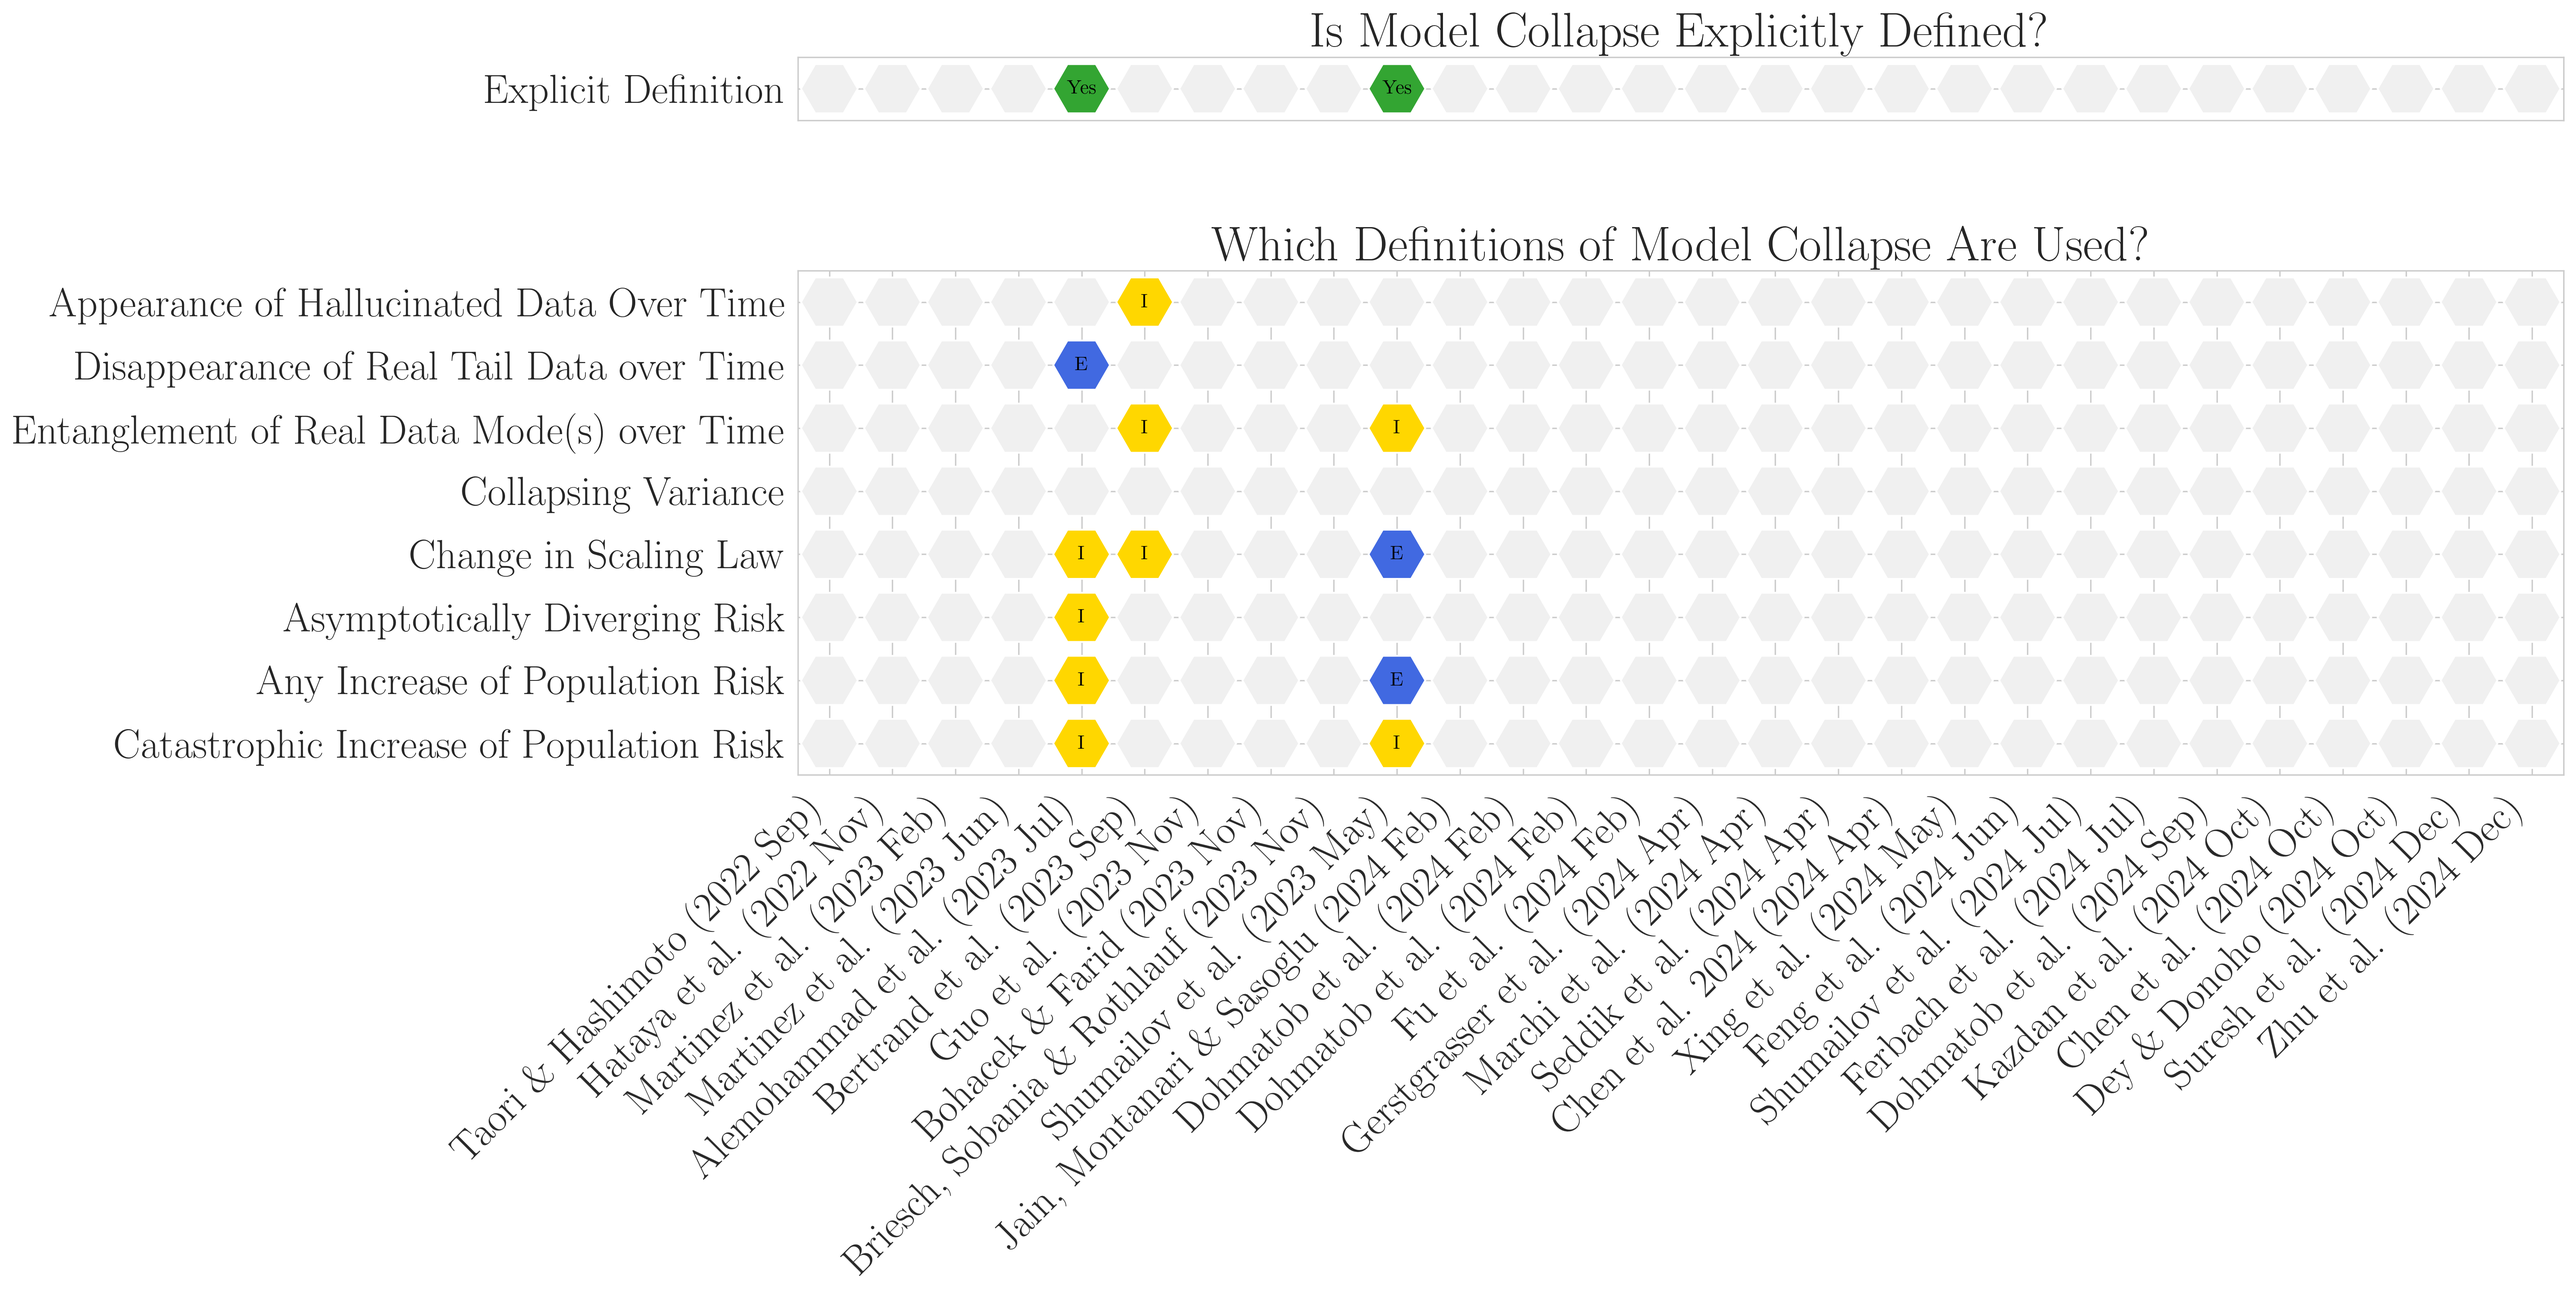
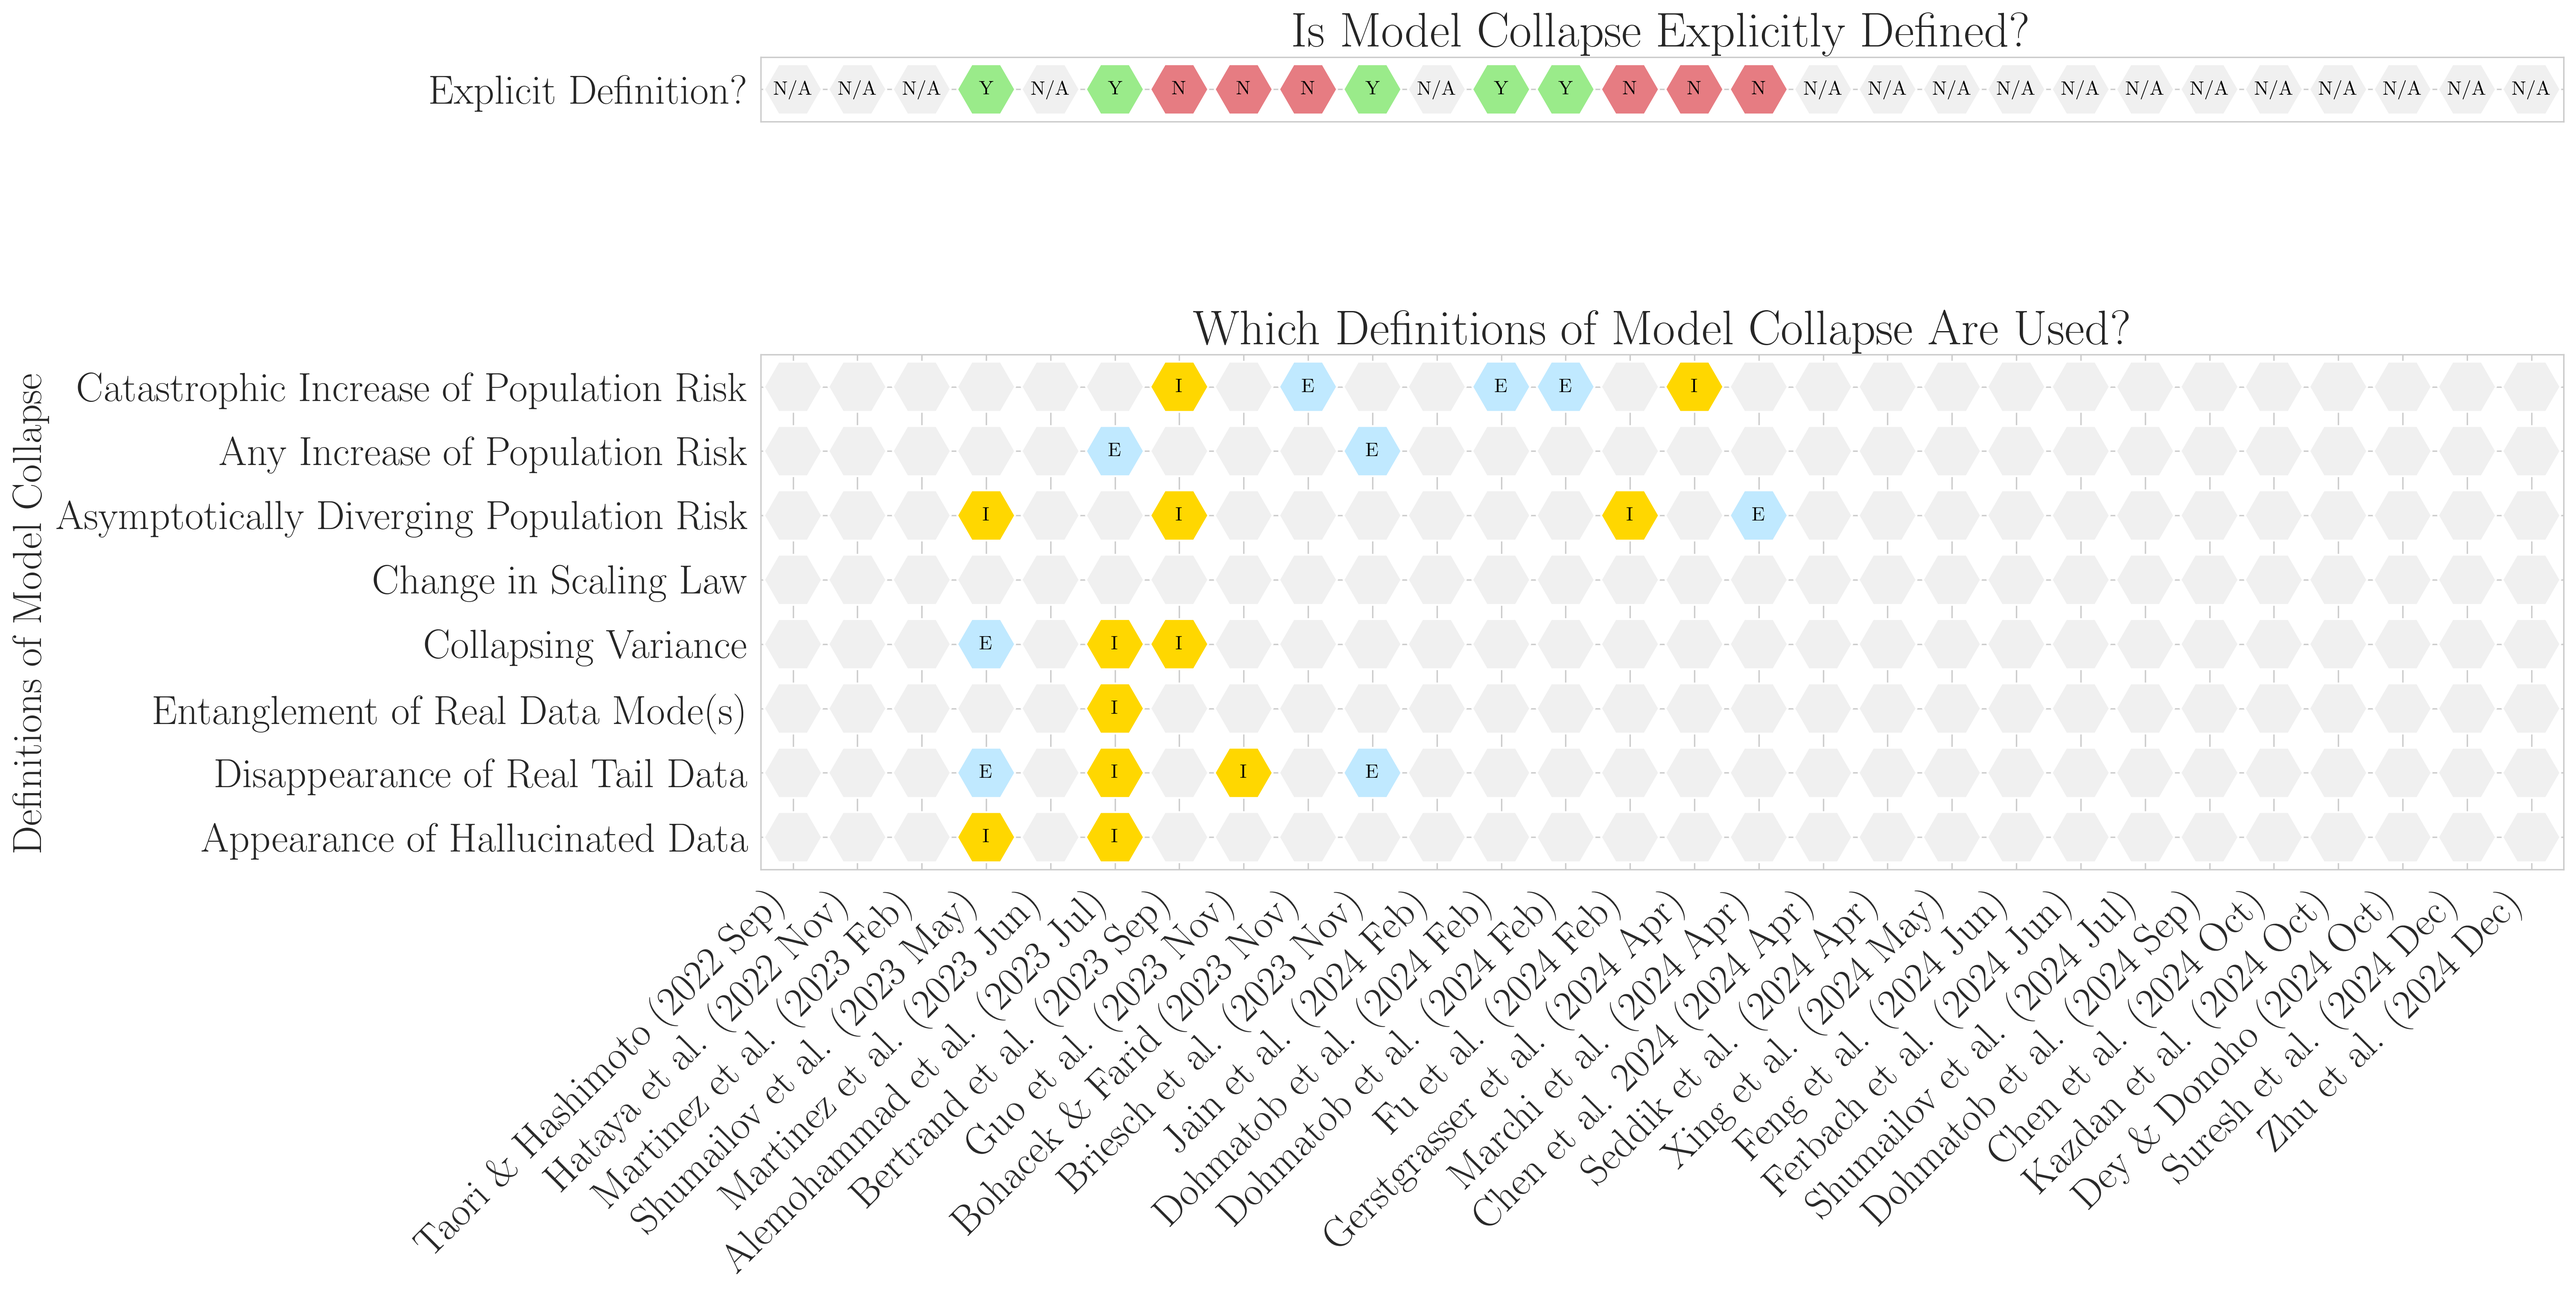
Polishing hex heatmap

diff --git a/notebooks/90_definitions_schematic/90_definitions_schematic_hexagons.py b/notebooks/90_definitions_schematic/90_definitions_schematic_hexagons.py
@@ -80,7 +80,10 @@ def draw_hex_heatmap(
 
     if ylabels is not None:
         ax.set_yticks(np.arange(rows) + 0.5)
-        ax.set_yticklabels(ylabels)
+        if flip_rows:
+            ax.set_yticklabels(ylabels[::-1])
+        else:
+            ax.set_yticklabels(ylabels)
     else:
         ax.set_yticks([])
 
@@ -103,12 +106,12 @@ definitions_df = definitions_df.drop(columns=["Paper Name"])
 definition_columns = [
     "Catastrophic Increase of Population Risk",
     "Any Increase of Population Risk",
-    "Asymptotically Diverging Risk",
+    "Asymptotically Diverging Population Risk",
     "Change in Scaling Law",
     "Collapsing Variance",
-    "Entanglement of Real Data Mode(s) over Time",
-    "Disappearance of Real Tail Data over Time",
-    "Appearance of Hallucinated Data Over Time",
+    "Entanglement of Real Data Mode(s)",
+    "Disappearance of Real Tail Data",
+    "Appearance of Hallucinated Data",
 ]
 
 plt.close()
@@ -132,14 +135,33 @@ fig, (ax0, ax1) = plt.subplots(
 # UPPER HEX-HEATMAP (Explicit Definition)
 ##############################################################################
 upper_data = pd.DataFrame(
-    [definitions_df["Explicit Definition"].values],
+    [definitions_df["Explicit Definition?"].values],
     columns=definitions_df["Author_Date"],
 )
-upper_data.index = ["Explicit Definition"]
+upper_data.index = ["Explicit Definition?"]
+
 
 # 0 => grey, 1 => blue
-upper_numeric_df = (upper_data == "Yes").astype(int)
-upper_annot_df = upper_data.applymap(lambda x: "Yes" if x == "Yes" else "")
+def convert_str_to_int(s) -> int:
+    if s == "Yes":
+        return 2
+    elif s == "No":
+        return 1
+    else:
+        return 0
+
+
+def convert_int_to_str(i) -> str:
+    if i == 2:
+        return "Y"
+    elif i == 1:
+        return "N"
+    else:
+        return "N/A"
+
+
+upper_numeric_df = upper_data.applymap(convert_str_to_int)
+upper_annot_df = upper_numeric_df.applymap(convert_int_to_str)
 
 upper_numeric_np = upper_numeric_df.values
 upper_annot_np = upper_annot_df.values
@@ -148,7 +170,8 @@ draw_hex_heatmap(
     ax=ax0,
     data=upper_numeric_np,
     # color_list=["#f0f0f0", "#4169e1"],  # Grey, Blue
-    color_list=["#f0f0f0", "#33a532"],  # Grey, Green
+    # color_list=["#f0f0f0", "#33a532"],  # Grey, Green
+    color_list=["#f0f0f0", "#e67c82", "#9aeb8a"],  # Grey, Red, Green
     annotations=upper_annot_np,
     xlabels=None,  # NO x tick labels at the top
     ylabels=upper_numeric_df.index,
@@ -193,13 +216,24 @@ lower_annot_np = lower_annot_df.values
 draw_hex_heatmap(
     ax=ax1,
     data=lower_numeric_np,
-    color_list=["#f0f0f0", "#ffd700", "#4169e1"],
+    color_list=["#f0f0f0", "#ffd700", "#c0e9ff"],  # Grey, Yellow, Blue
     annotations=lower_annot_np,
     xlabels=lower_numeric_df.columns,  # We DO want xlabels here
     ylabels=lower_numeric_df.index,
     xrotation=45,
+    flip_rows=True,
 )
 ax1.set_title("Which Definitions of Model Collapse Are Used?")
+ax1.set_ylabel("Definitions of Model Collapse")
+# # Add text
+# fig.text(
+#     0.075,
+#     0.81,
+#     r"\underline{Definitions of Model Collapse}",
+#     # ha="center",
+#     # va="center",
+#     color="black",
+# )
 
 # # Optionally reduce extra whitespace around the figure
 # plt.subplots_adjust(left=0.2, right=0.95, top=0.92, bottom=0.1)
